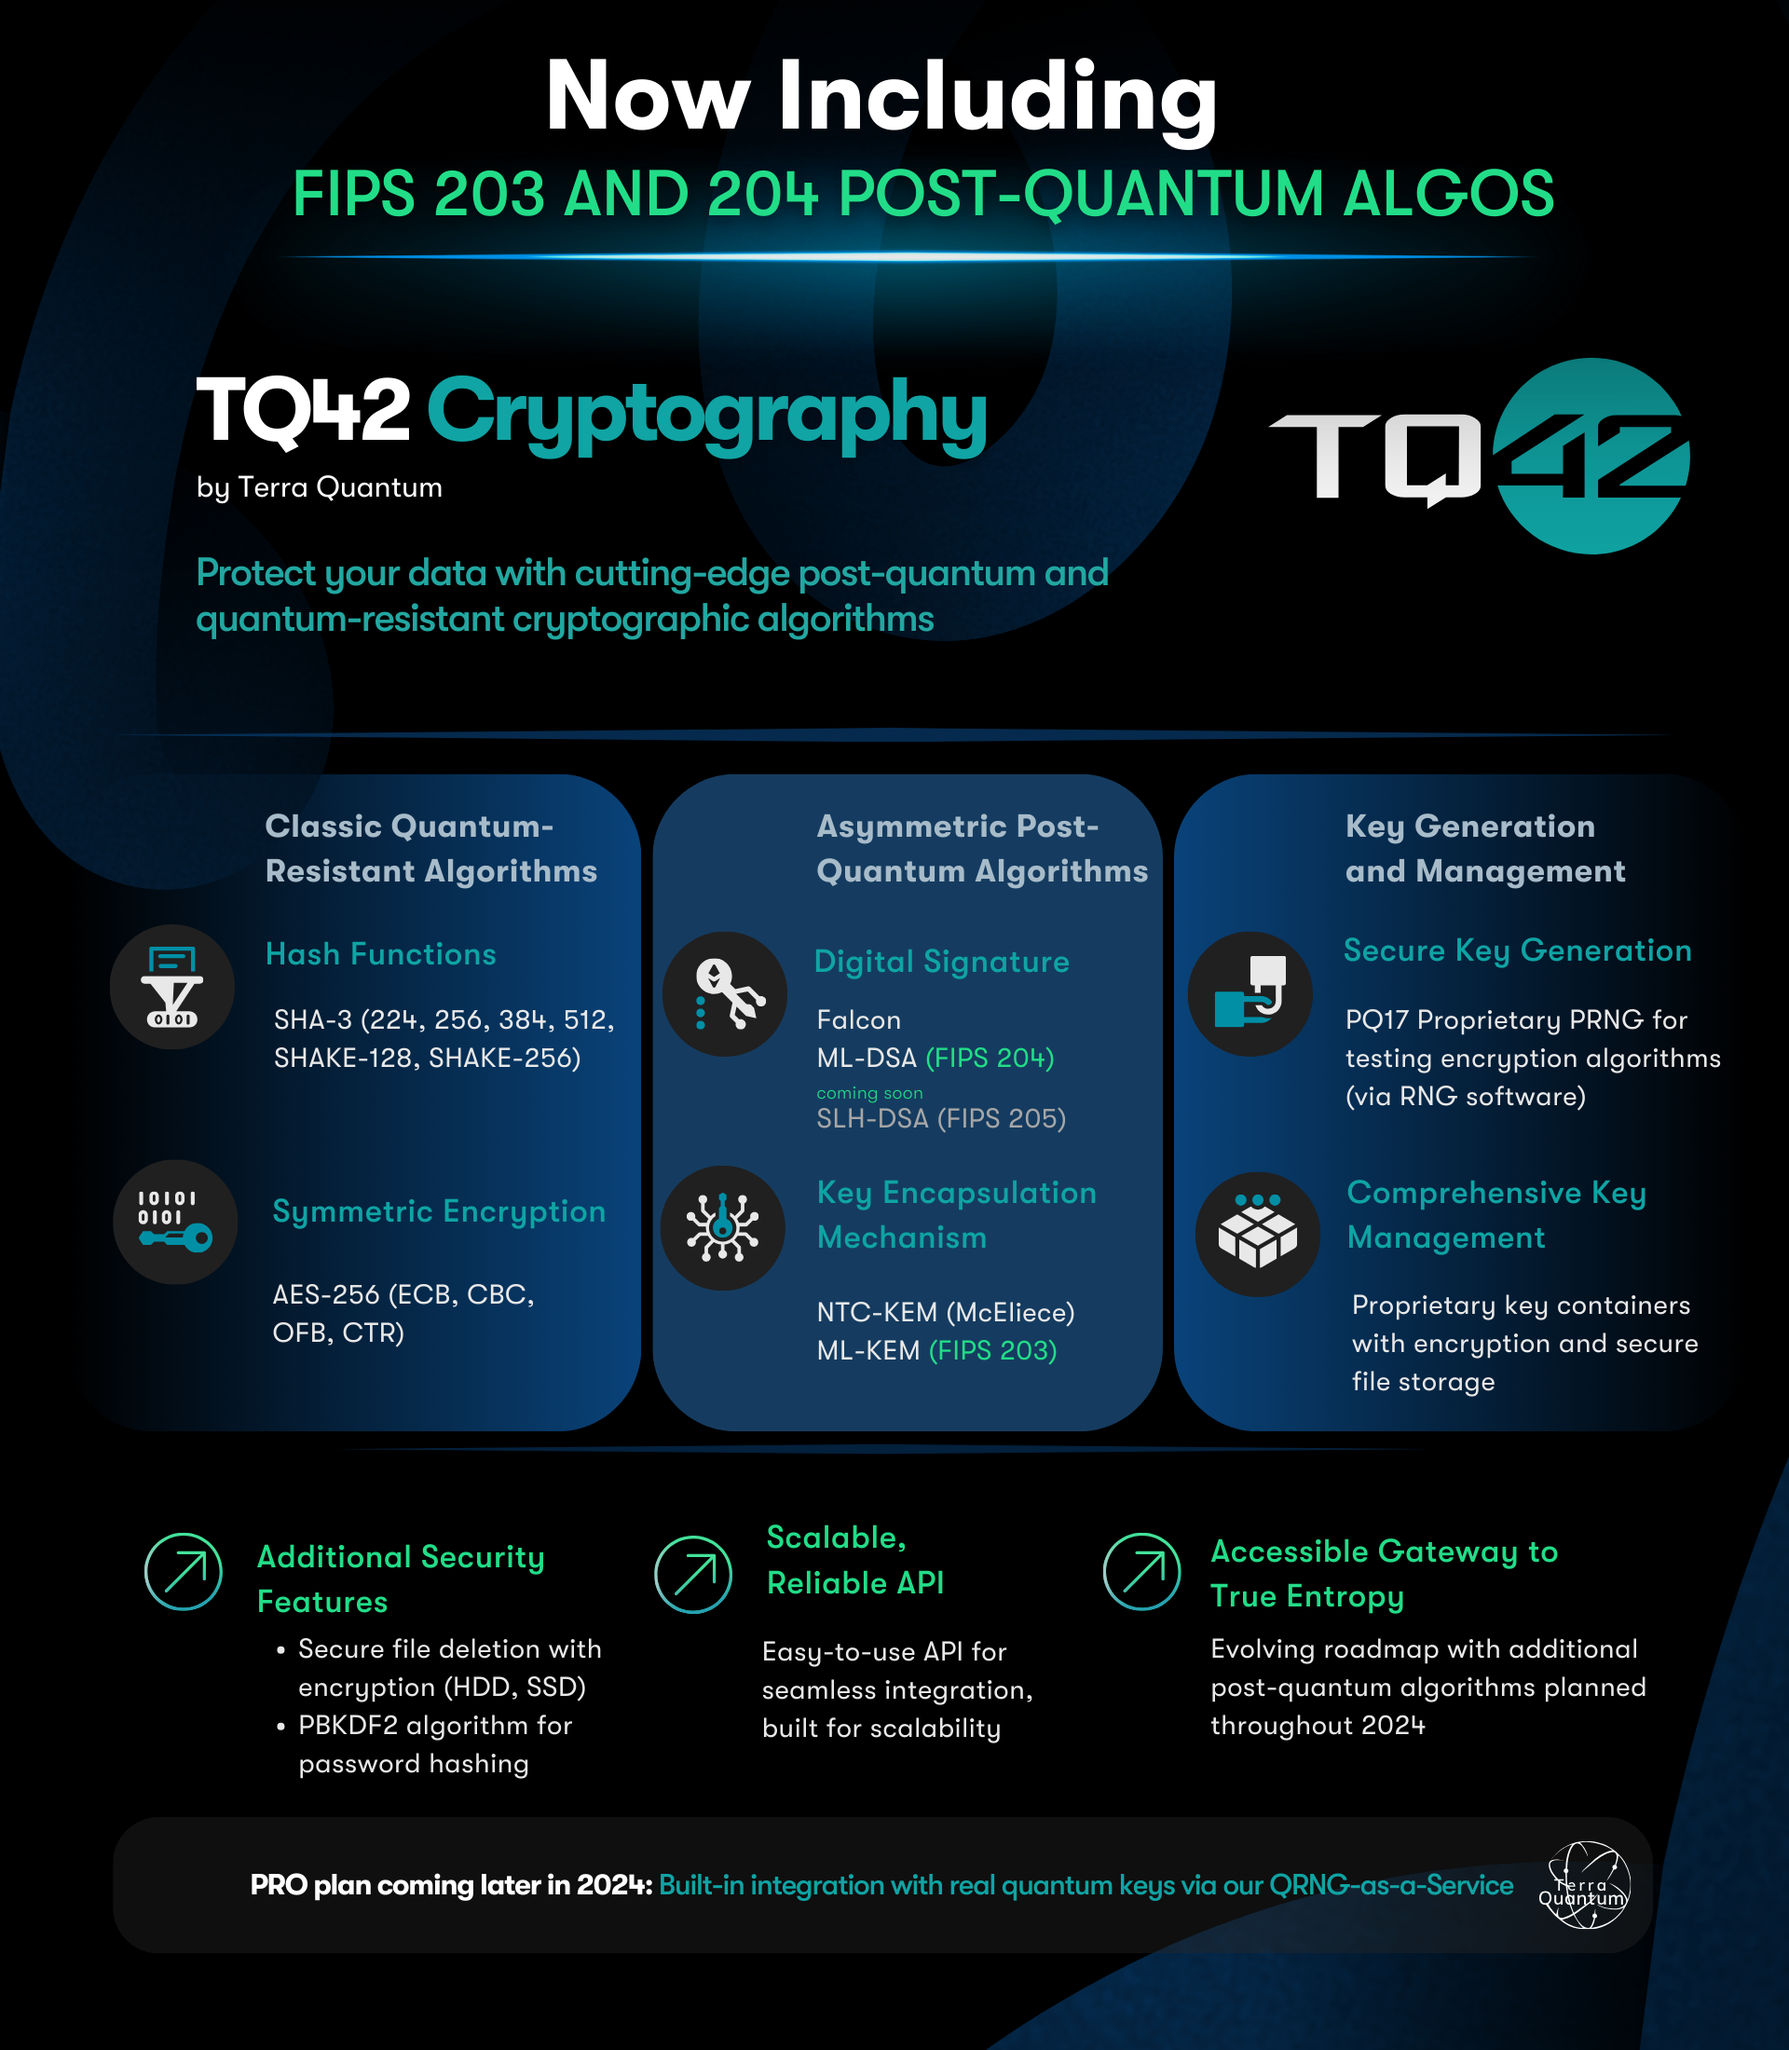
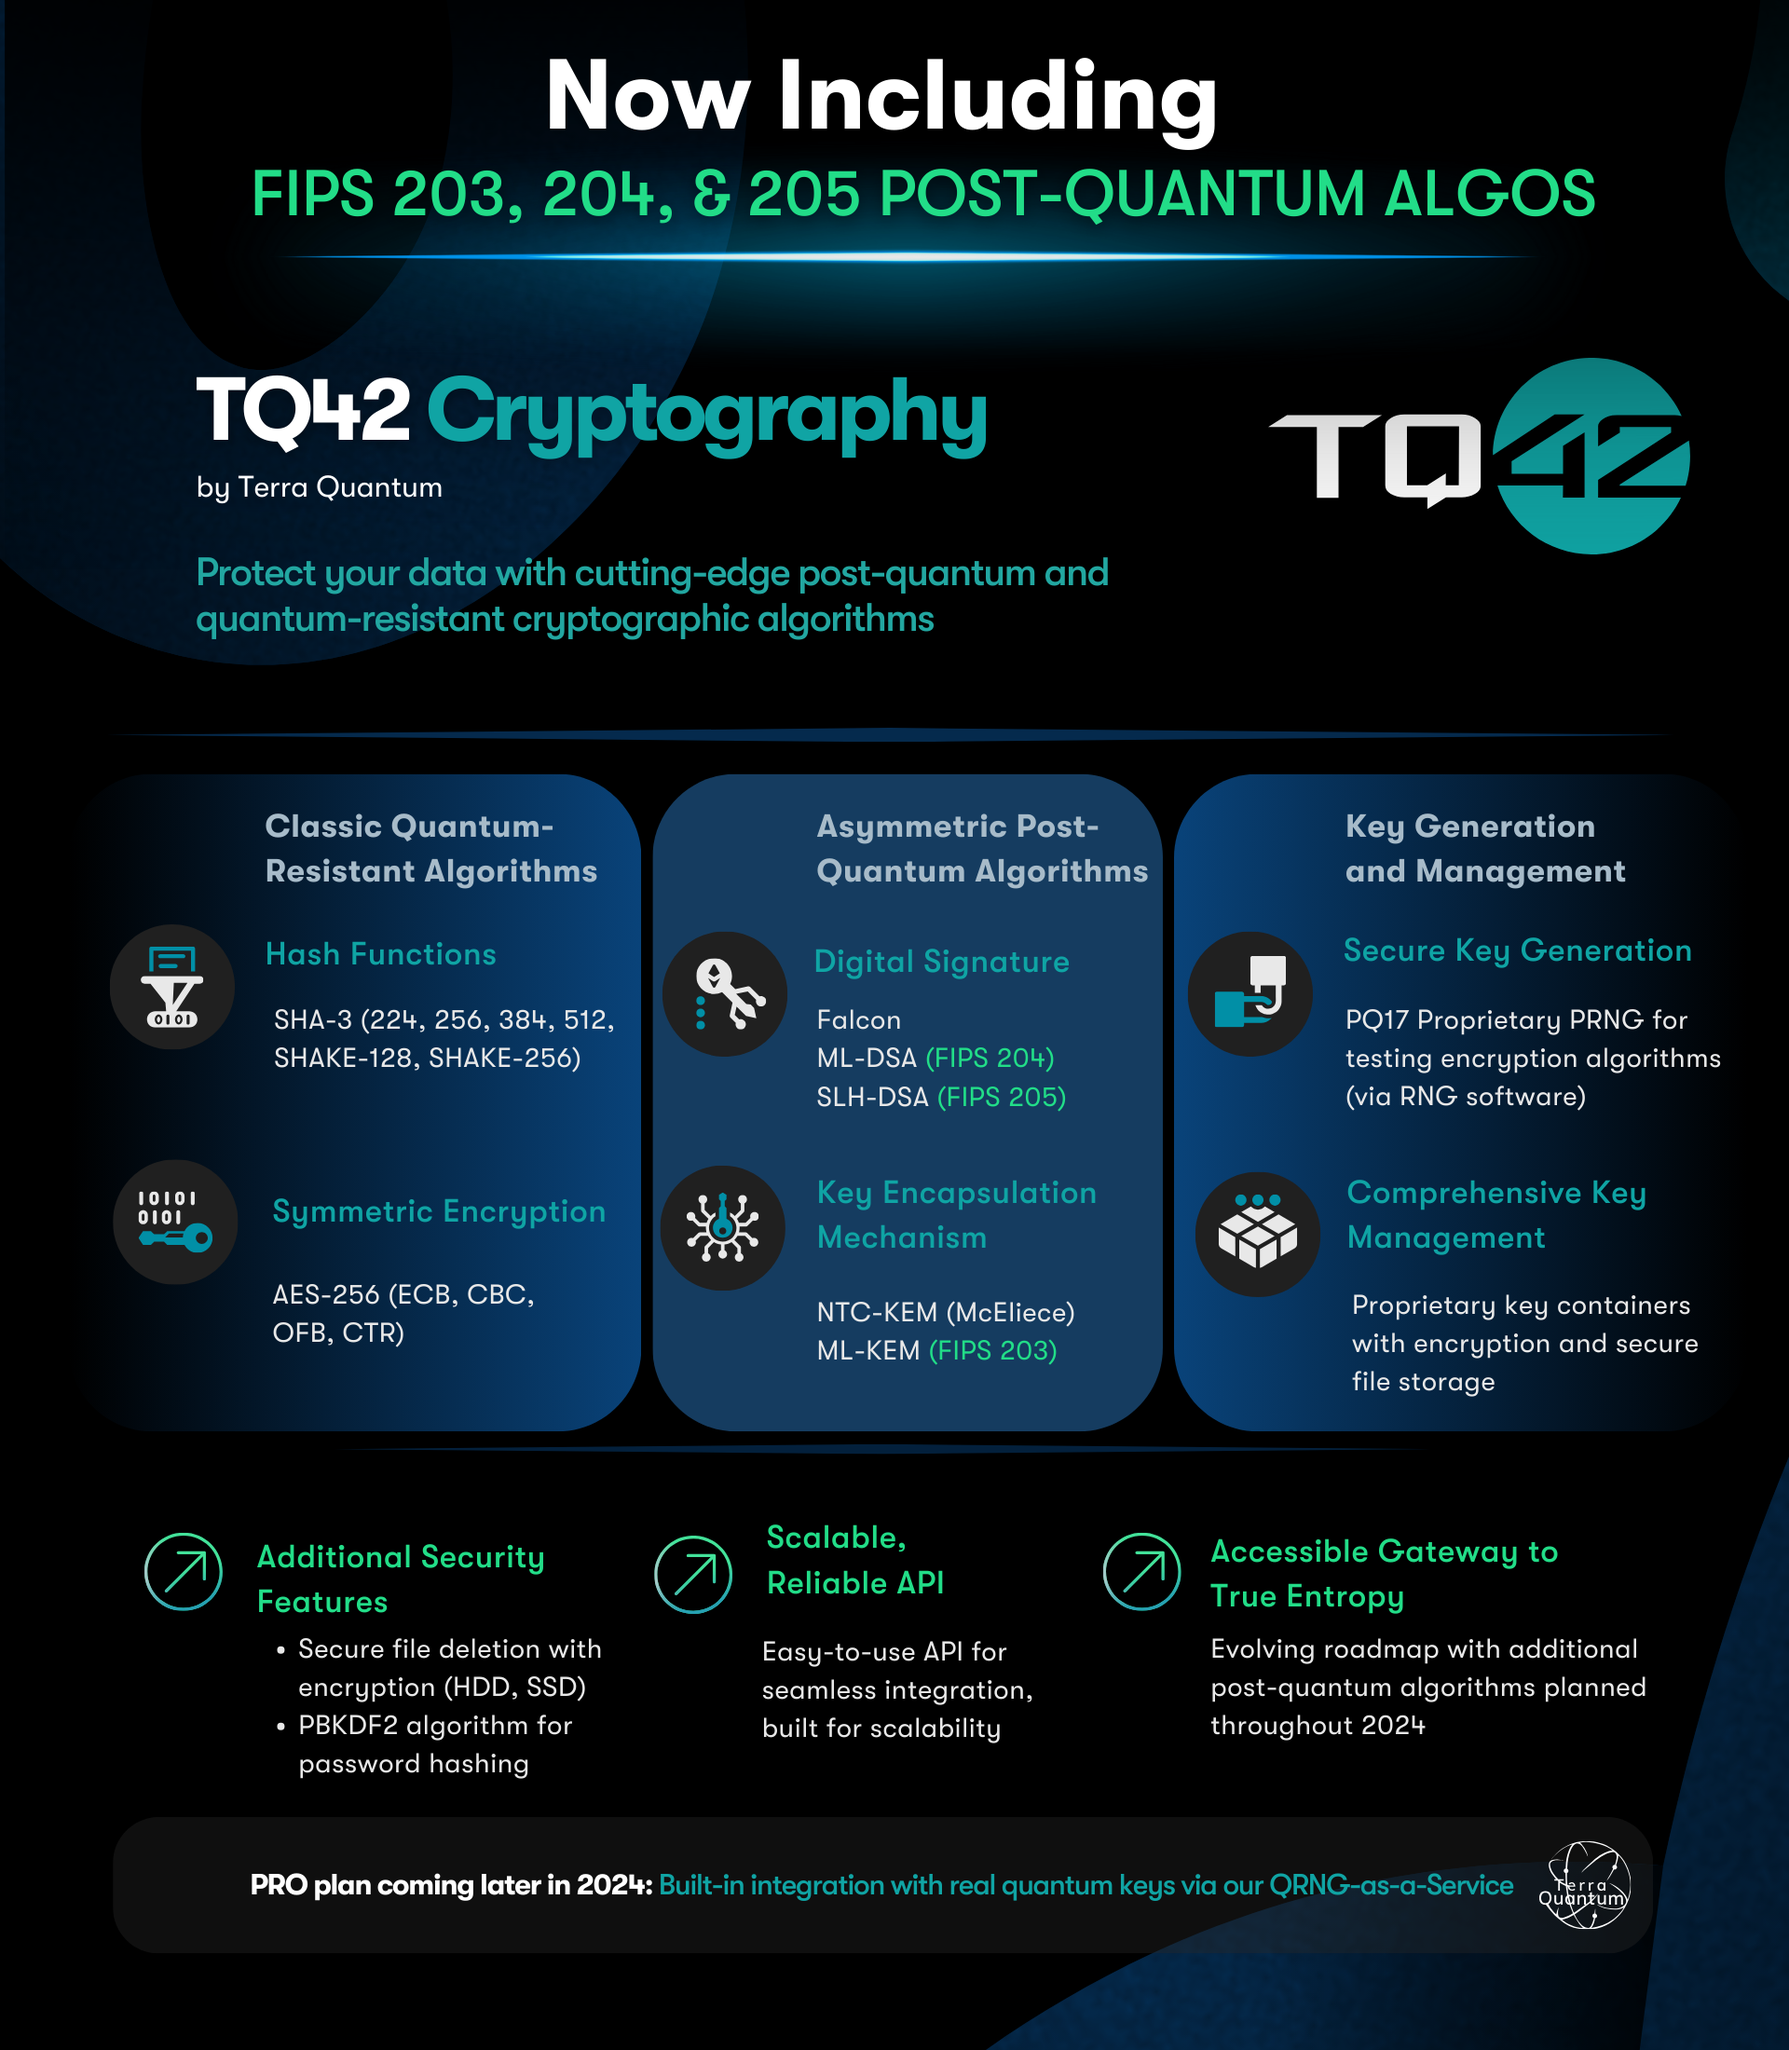
SLH-DSA documentation for v0.2.1
GitOrigin-RevId: 9fdce0c3d81b096ffde02661bb99ef62ad7ac5fb

diff --git a/docs/post_quantum_algs/digital_signature/slh-dsa.md b/docs/post_quantum_algs/digital_signature/slh-dsa.md
@@ -1,0 +1,90 @@
+---
+layout: default
+title: SLH-DSA
+parent: Digital Signature
+grand_parent: Post-Quantum Algorithms
+nav_order: 2
+---
+
+# **SLH-DSA Overview**
+{: .no_toc }
+
+<details open markdown="block">
+  <summary>
+    Table of contents
+  </summary>
+  {: .text-delta }
+1. TOC
+{:toc}
+</details>
+
+- **Algorithm type**: Digital signature scheme.
+- **Main cryptographic assumption**:  Scheme based on the presumed difficulty of finding preimages for hash functions.
+- **License**: [Public-Domain](https://github.com/terra-quantum-public/tq42-pqc-oss/tree/main/src/slhdsa/LICENSE.txt)
+
+
+## FIPS 205 SLH-DSA
+
+FIPS 205 is the Stateless Hash-Based Digital Signature Algorithm (SLH-DSA), which was developed by the National Institute of Standards and Technology (NIST) to provide a quantum-resistant digital signature mechanism. FIPS 205 defines a method for digital signature generation that can be used for the protection of binary data (commonly called a message) and for the verification and validation of those digital signatures  
+- [FIPS 205](https://csrc.nist.gov/pubs/fips/205/ipd) 
+- [Nist post quantum cryptography](https://www.infosecurity-magazine.com/news/nist-post-quantum-cryptography/)
+
+As part of the NIST standardisation process for post-squantum cryptography, SPHINCS+ has been under consideration and is the basis for Stateless Hash-Based Digital Signature Algorithm (SLH-DSA).
+- [SPHINCS+](https://sphincs.org/data/sphincs+-paper.pdf) 
+
+The security of SLH-DSA relies on the presumed diffculty of finding preimages for hash functions as well as several related properties of the same hash functions. Unlike the algorithms specifed in FIPS 186-5, SLH-DSA is expected to provide resistance to attacks from a large-scale quantum computer.
+    
+The standard specifes the mathematical steps that need to be performed for key generation, signature generation, and signature verifcation.
+
+FIPS 205 was initially published as a draft on August 24, 2023, with a public comment period that concluded on November 22, 2023. Following the public comment period, necessary revisions were made to address feedback, and NIST aims to finalize and publish the standard for use in 2024.
+    
+
+### Applications:
+
+FIPS 205 can be applied in multiple scenarios where secure digital signatures are essential, including:
+
+-   Ensuring the integrity and authenticity of digital communications, documents, and transactions.
+-   Utilizing quantum-resistant signatures within various cryptographic protocols and systems.
+-   Implementing secure and verifiable signatures for sensitive and classified governmental and military communications.
+-   Enhancing the security of electronic transactions, contracts, and records within financial systems.
+-   Ensuring the authenticity and integrity of software updates and installations to prevent tampering and unauthorized alterations.   
+
+## SLH-DSA advantages over classical digital signature algorithms
+
+Stateless Hash-Based Digital Signature Algorithm (SLH-DSA), such as those based on the SPHINCS+, offer several significant advantages over classical digital signature algorithms like RSA or ECDSA (Elliptic Curve Digital Signature Algorithm). Here are some of the key benefits:
+
+- SLH-DSA  is expected to provide resistance to attacks from a large-scale quantum computer. Classical algorithms like RSA and ECDSA can be broken by quantum algorithms (e.g., Shor's algorithm), rendering them insecure in a post-quantum world.
+- SLH-DSA algorithm offer a good balance between security and performance, with efficient key generation, signing, and verification operations.
+- While classical algorithms may require increasingly larger key sizes to maintain security as computational power increases, SLH-DSA algorithms typically provide strong security with more manageable key and signature sizes,
+- SLH-DSA algorithms often come with different parameter sets, allowing users to choose configurations that balance security and performance based on specific needs.
+
+
+## SLH-DSA - Parameter set summary
+
+- SLH-DSA-SHAKE-256f -  security category **5**
+- Public key size - **64** bytes
+- Private key size - **128** bytes 
+- Signature size - **49 856** bytes
+
+## NIST's Known Answer Tests (KAT)
+
+The TQ42 Cryptography SLH-DSA algorithm implementation has successfully passed the Known Answer Tests (KAT) provided by NIST. This confirms that the algorithm performs reliably as anticipated. For those interested in a deeper dive into the specifics of these tests, they are available [for review](https://github.com/terra-quantum-public/tq42-pqc-oss/tree/main/test/slhdsa).
+
+## Leveraging SLH-DSA and True Entropy
+
+The customization of the SLH-DSA algorithm within TQ42 Cryptography is designed to work in synergy with true entropy, sourced from the Single Photon Quantum Random Number Generator (QRNG). This technology ensures that the randomness required for cryptographic keys is of the highest quality, providing unparalleled security for company data. Since the effectiveness of any cryptographic algorithm heavily relies on the randomness of its keys, incorporating QRNG derived true entropy with TQ42's customized SLH-DSA algorithm ensures that your company's sensitive information is safeguarded in the most robust manner possible.
+
+ 
+## API overview
+
+To include the necessary library, please refer to the  [Getting Started Guide](../../getting_started.html).
+After following the guide, include the `pqc/slh-dsa.h` header in your code.
+All Signature Schemes algorithms have a unified API. For SLH-DSA, you can set the algorithm to work using the constant **PQC_CIPHER_SLH_DSA_SHAKE_256F_DRAFT**.
+To learn about all the available methods for signature algorithms, visit the [Signature Schemes Generic API Overview page](api.html).
+
+
+## Example
+
+**Code**
+```cpp 
+{% include examples/signature/example_slhdsa.cpp %}```

diff --git a/docs/post_quantum_algs/digital_signature/ml-dsa.md b/docs/post_quantum_algs/digital_signature/ml-dsa.md
@@ -22,7 +22,7 @@ nav_order: 2
 - **Main cryptographic assumption**:  Scheme based on the Module Learning With Errors problem.
 - **Copyright**:  [Public Domain](https://creativecommons.org/public-domain/cc0/)
 or [Apache 2.0 License](https://www.apache.org/licenses/LICENSE-2.0.html)
-- [**GitHub Source](https://github.com/terra-quantum-public/tq42-pqc-oss/tree/main/src/ml-dsa)
+- [**GitHub Source](https://github.com/terra-quantum-public/tq42-pqc-oss/tree/main/src/mldsa)
 
 
 ## FIPS 204 ML-DSA
@@ -68,7 +68,7 @@ Module-Lattice-based Digital Signature Algorithms (ML-DSA), such as those based 
 - Signature size - **4627** bytes
 
 ## NIST's Known Answer Tests (KAT)
-The TQ42 Cryptography ML-DSA algorithm implementation has successfully passed the Known Answer Tests (KAT) provided by NIST. This confirms that the algorithm performs reliably as anticipated. For those interested in a deeper dive into the specifics of these tests, they are available [for review](https://github.com/terra-quantum-public/tq42-pqc-oss/tree/main/test/mlkem).
+The TQ42 Cryptography ML-DSA algorithm implementation has successfully passed the Known Answer Tests (KAT) provided by NIST. This confirms that the algorithm performs reliably as anticipated. For those interested in a deeper dive into the specifics of these tests, they are available [for review](https://github.com/terra-quantum-public/tq42-pqc-oss/tree/main/test/mldsa).
 
 ## Leveraging ML-DSA and True Entropy
 The customization of the ML-DSA algorithm within TQ42 Cryptography is designed to work in synergy with true entropy, sourced from the Single Photon Quantum Random Number Generator (QRNG). This technology ensures that the randomness required for cryptographic keys is of the highest quality, providing unparalleled security for company data. Since the effectiveness of any cryptographic algorithm heavily relies on the randomness of its keys, incorporating QRNG derived true entropy with TQ42's customized ML-DSA algorithm ensures that your company's sensitive information is safeguarded in the most robust manner possible.

diff --git a/docs/keys/keys_container.md b/docs/keys/keys_container.md
@@ -343,7 +343,7 @@ PQC_CONTAINER_HANDLE PQC_asymmetric_container_create(uint32_t cipher);
 
 **Container Initialization**
 
--   **Key Fetching**: As part of the container's creation, cryptographic keys are sourced from a [specified randomness source](/keys/PRNG.html). This ensures that the cryptographic keys are robust and secure, fitting the requirements for secure cryptographic operations.
+-   **Key Fetching**: As part of the container's creation, cryptographic keys are sourced from a [specified randomness source](keys/PRNG.html). This ensures that the cryptographic keys are robust and secure, fitting the requirements for secure cryptographic operations.
 -   **Memory Residency**: It is crucial to note that the container exists only in the memory when created. There's no automatic storage or file association happening during the container's creation.
 
 **Important Note**

diff --git a/docs/post_quantum_algs/kem/api.md b/docs/post_quantum_algs/kem/api.md
@@ -138,7 +138,7 @@ size_t PQC_API PQC_kem_encode_secret(  uint32_t cipher,
 
 This function generates a shared secret key using a given encryption algorithm, a message, and a pre-generated public key. The message is then intended to be sent to the second user, who owns the public key, for decryption.
 
-*   `cipher`: An identifier for selecting the encryption algorithm. [`Cipher constants`](/common_functions.html#cipher)
+*   `cipher`: An identifier for selecting the encryption algorithm. [`Cipher constants`](common_functions.html#cipher)
     
 *   `uint8_t * message`, `size_t message_length`: A pointer to the memory area for the message and its length. The message, which contains ciphertext encrypted with the public key, will be written here to be sent to the other party.
     

diff --git a/README.md b/README.md
@@ -39,6 +39,7 @@ Key Encapsulation Mechanism:
 -   [Classic McEliece 8192128f](https://terra-quantum-public.github.io/tq42-pqc-oss/post_quantum_algs/kem/mceliece.html)
 
 Digital Signature:
+-   [SLH-DSA](https://terra-quantum-public.github.io/tq42-pqc-oss/post_quantum_algs/digital_signature/slh-dsa.html)
 -   [ML-DSA](https://terra-quantum-public.github.io/tq42-pqc-oss/post_quantum_algs/digital_signature/ml-dsa.html)
 -   [Falcon padded 1024](https://terra-quantum-public.github.io/tq42-pqc-oss/post_quantum_algs/digital_signature/falcon.html)
 

diff --git a/docs/post_quantum_algs/kem/ml-kem.md b/docs/post_quantum_algs/kem/ml-kem.md
@@ -22,7 +22,7 @@ nav_order: 2
 - **Cryptographic Assumption:** ML-KEM is a based on CRYSTALS-KYBER, a lattice-based key-encapsulation mechanism.
 - **Copyright**:  [Public Domain](https://creativecommons.org/public-domain/cc0/)
 or [Apache 2.0 License](https://www.apache.org/licenses/LICENSE-2.0.html)
-- [**GitHub Source](https://github.com/terra-quantum-public/tq42-pqc-oss/tree/main/src/ml-kem)
+- [**GitHub Source](https://github.com/terra-quantum-public/tq42-pqc-oss/tree/main/src/mlkem)
 
 ## FIPS-203 ML-KEM
 
